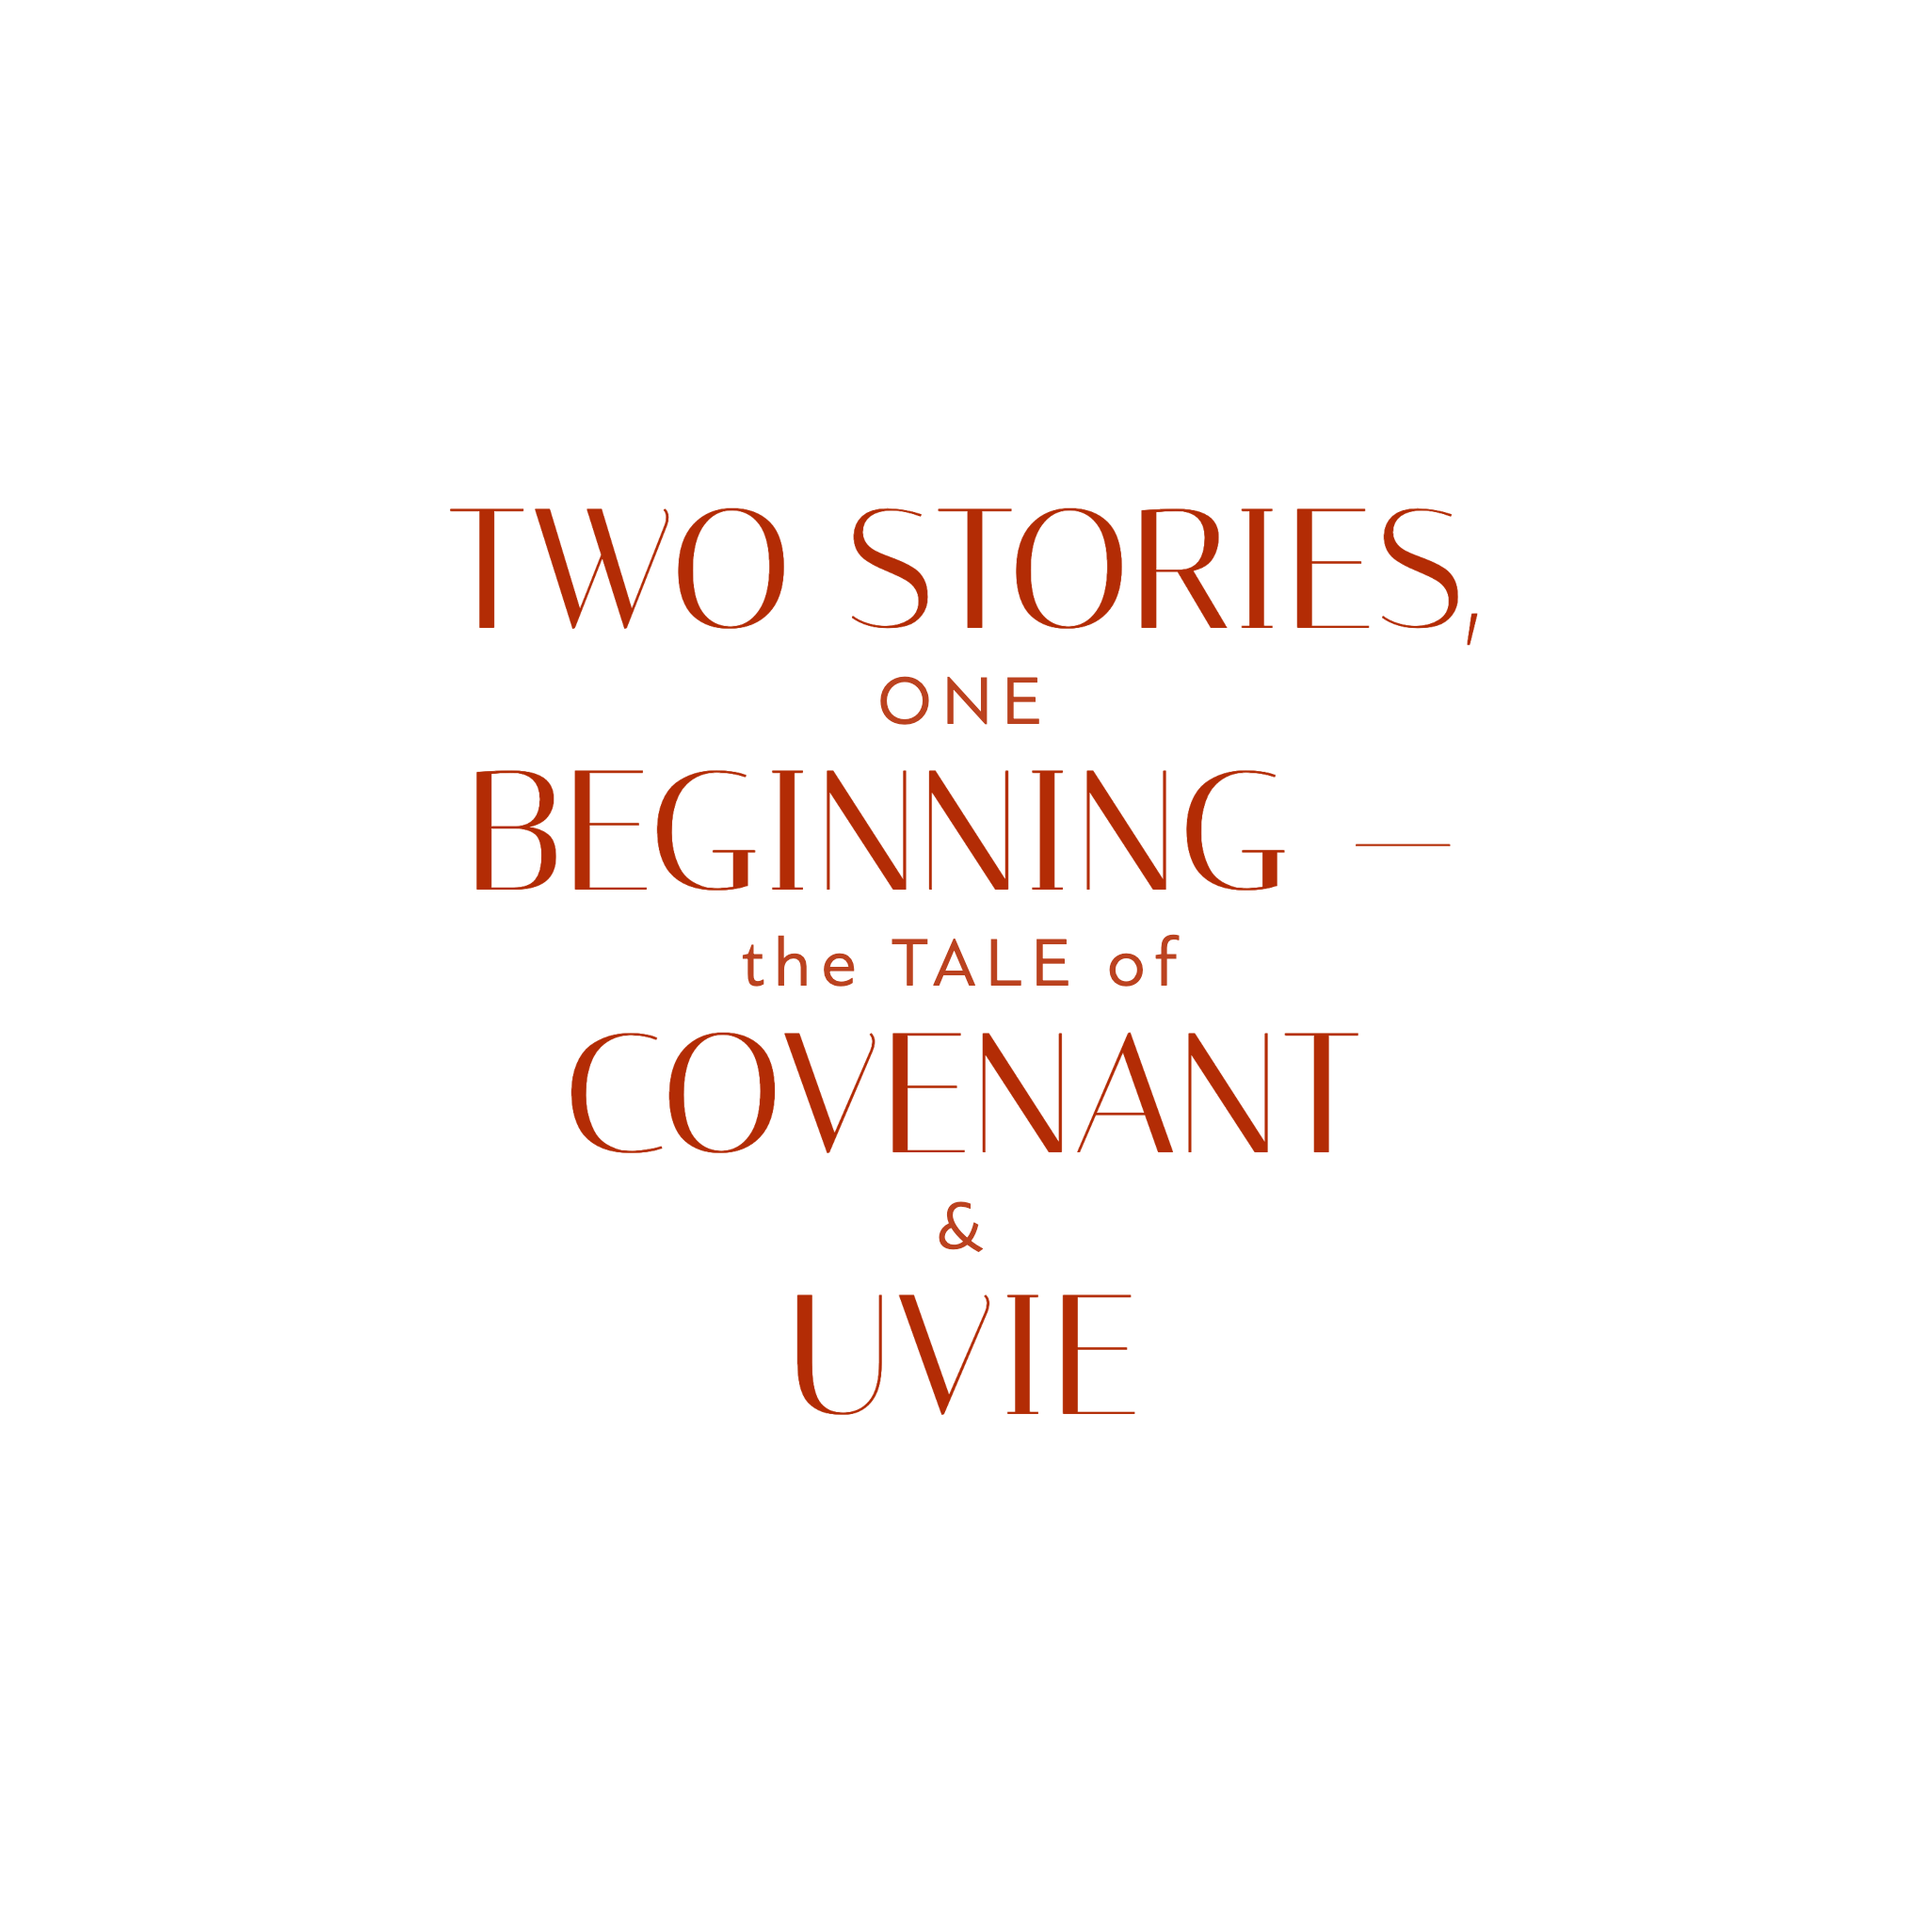
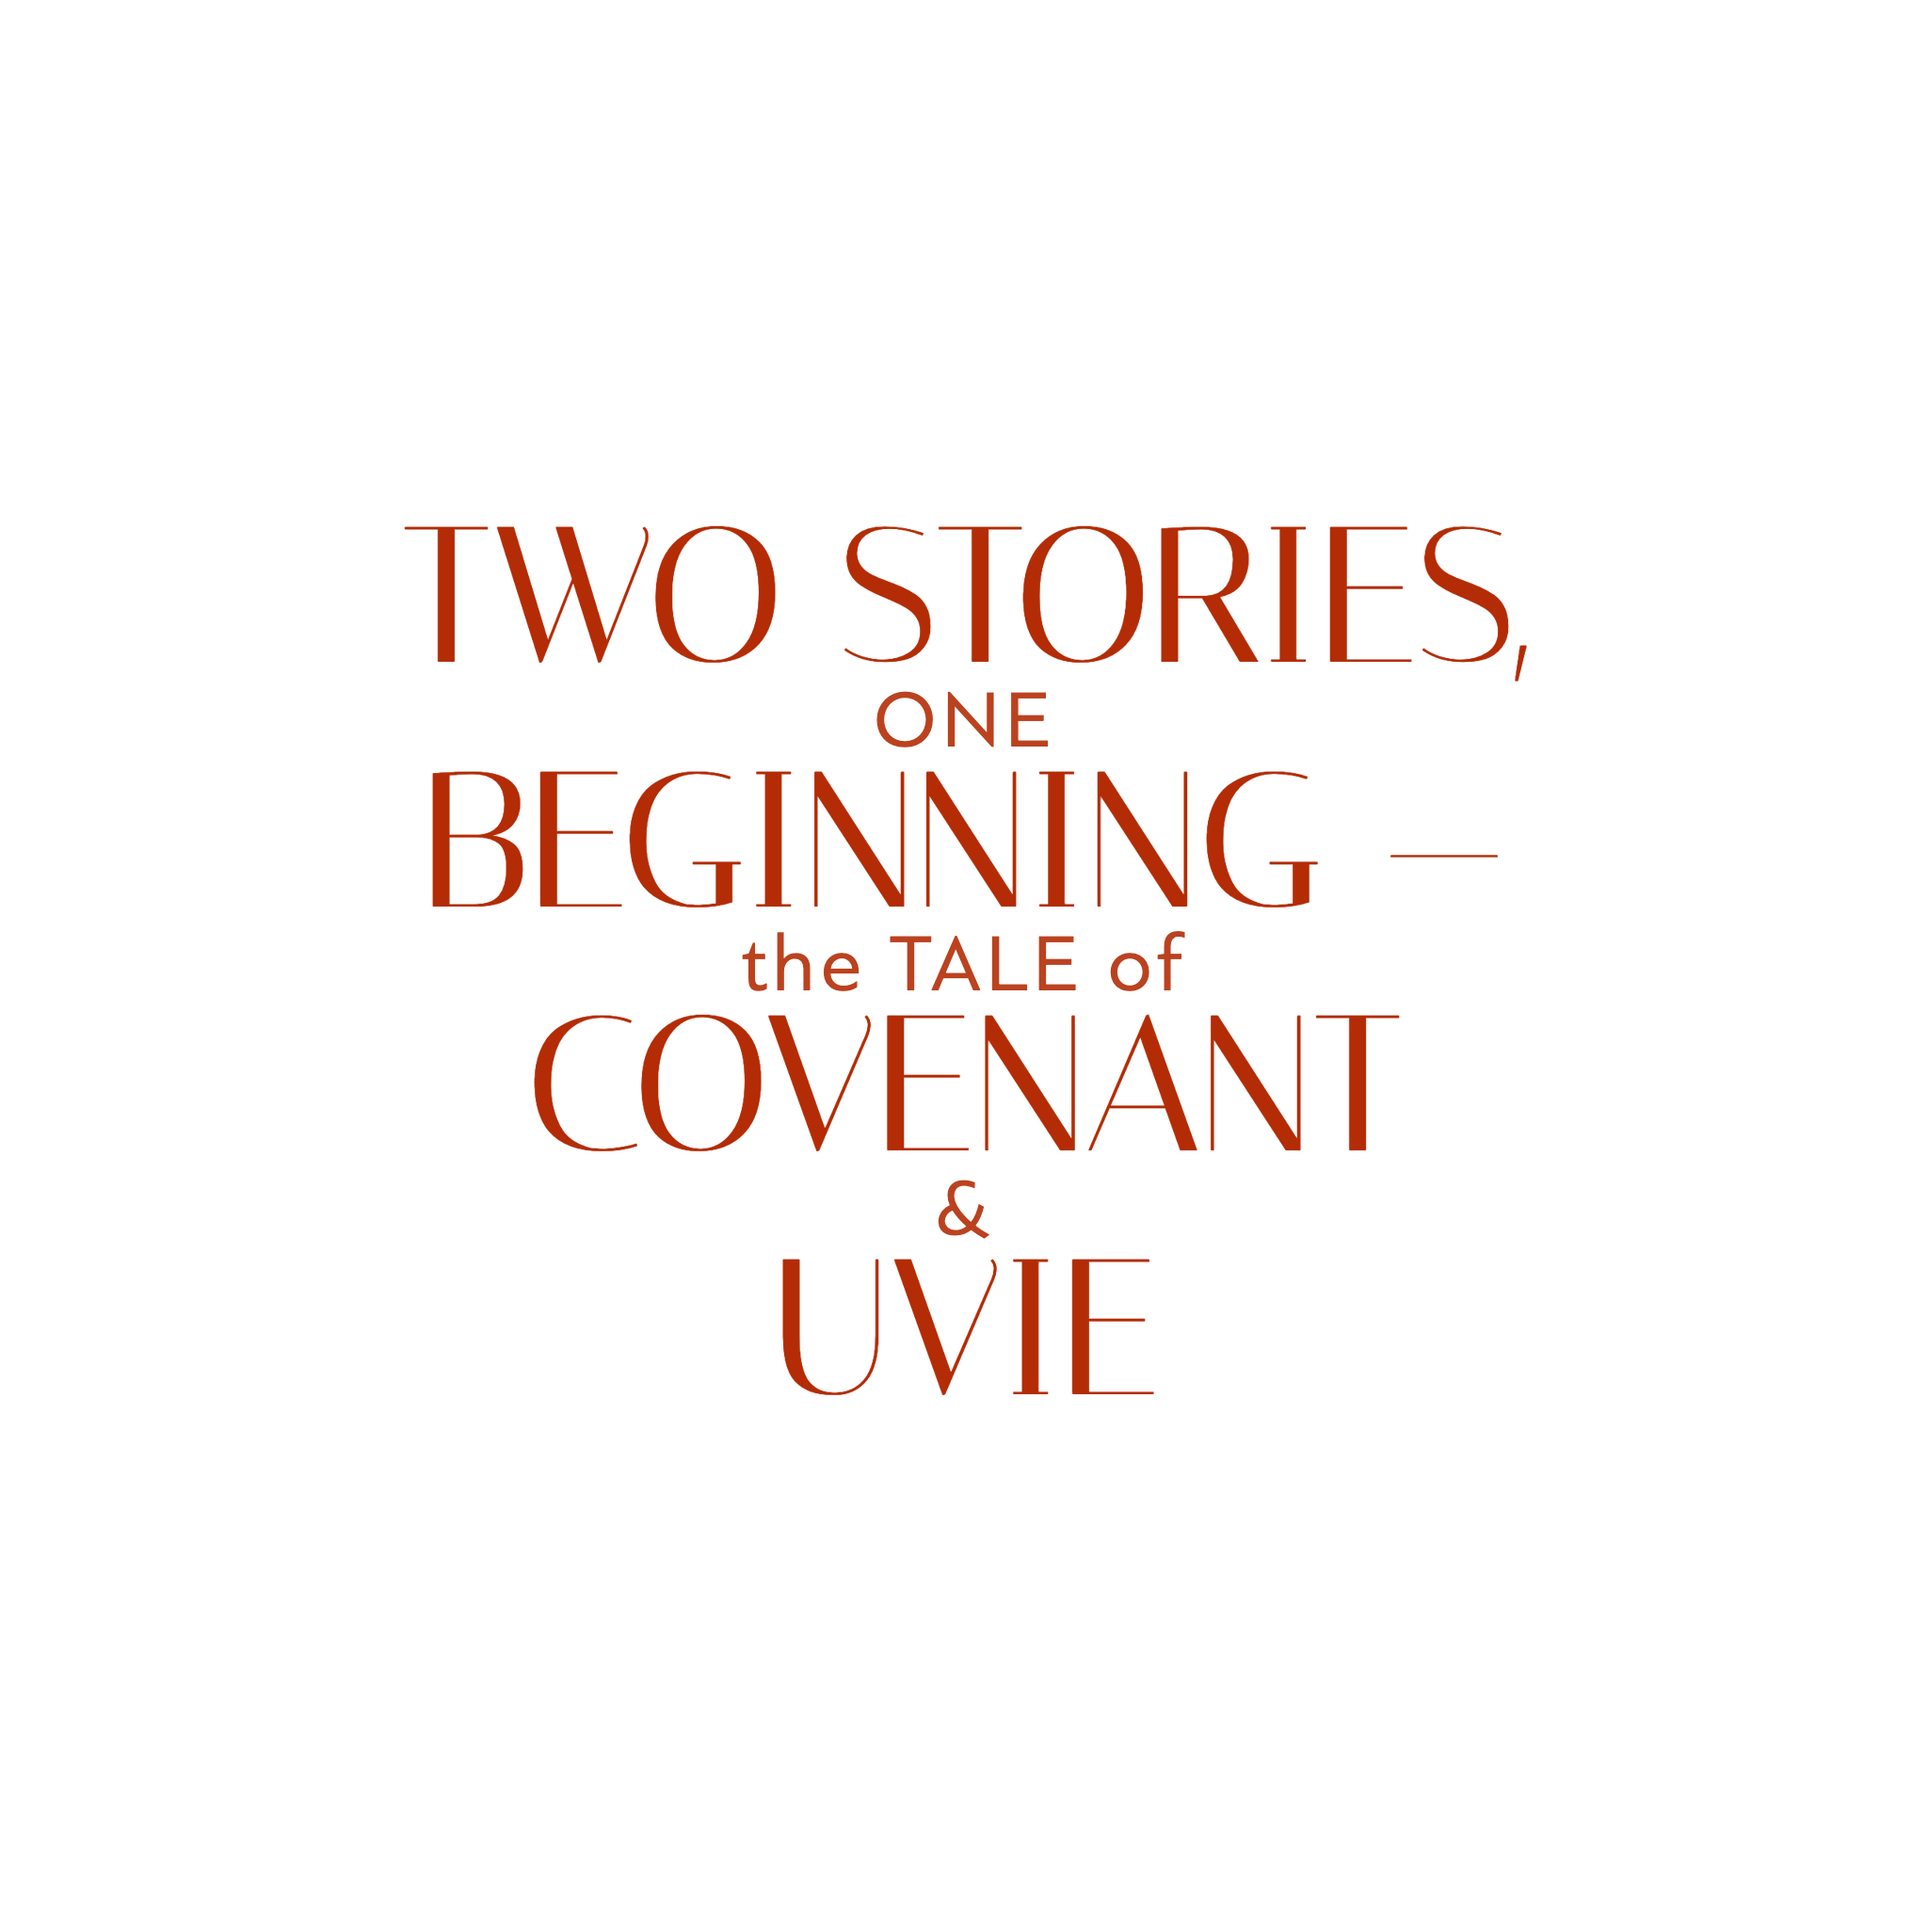
fix(home): kill hover flicker at card bottom edge + tighten the tagline block
- FLICKER: the per-frame hover re-resolve unhovered when the raycast missed, but a lifting
  card moves its own hitbox up off the cursor — so at a card's bottom edge it oscillated
  lift→miss→drop→hit. The re-resolve now only SWITCHES between cards (scroll hand-off);
  unhovering when the pointer leaves the deck is left to onMouseMove (fires on move-off).
- TAGLINE: too airy (user wants the reference's squeezed block). Tighter line-height
  0.94→0.82, sm margins 14→3px, letter-spacing looser→tighter, and a modest size bump
  (xl 180→204, sm 74→86). Tighter spacing offsets the size, so vertical extent doesn't
  grow — no re-collision with the (dropped) ring. Regenerated cu-txt1..4.png.

Changed region(s): [[0.2188, 0.25, 0.7812, 0.75], [0.2188, 0.25, 0.4062, 0.3438]]

diff --git a/composables/useChapterScene.js b/composables/useChapterScene.js
@@ -888,11 +888,13 @@ export function useChapterScene() {
 
     // Keep hover + center text + cursor tint in sync each idle frame (Issues #9/#13/#14).
     if (introComplete && selectedIndex === -1) {
-      // Re-resolve the hover from the last cursor position against the CURRENT ring. This is
-      // what makes a wheel scroll (no mousemove) hand the lift to whatever card rotates under
-      // the pointer — front OR side — and settle it when scrolling stops. Same path as
-      // onMouseMove, so the two never disagree.
-      applyHover(resolveHoverTarget(lastCursorX, lastCursorY))
+      // Re-resolve the hover from the last cursor position against the CURRENT ring — this hands
+      // the lift to whatever card scrolls under a still pointer (a wheel fires no mousemove).
+      // But NEVER unhover from here: a lifting card moves its own hitbox up off the cursor, so
+      // unhovering on that miss made the bottom edge oscillate (lift → miss → drop → hit → …).
+      // Only SWITCH between cards; leaving the deck is onMouseMove's job (it fires on move-off).
+      const reTarget = resolveHoverTarget(lastCursorX, lastCursorY)
+      if (reTarget !== -1) applyHover(reTarget)
 
       const fc = frontChapterIdx()
       // Center text tracks the front card when NOT hovering (hover owns the wordmark, #9).
